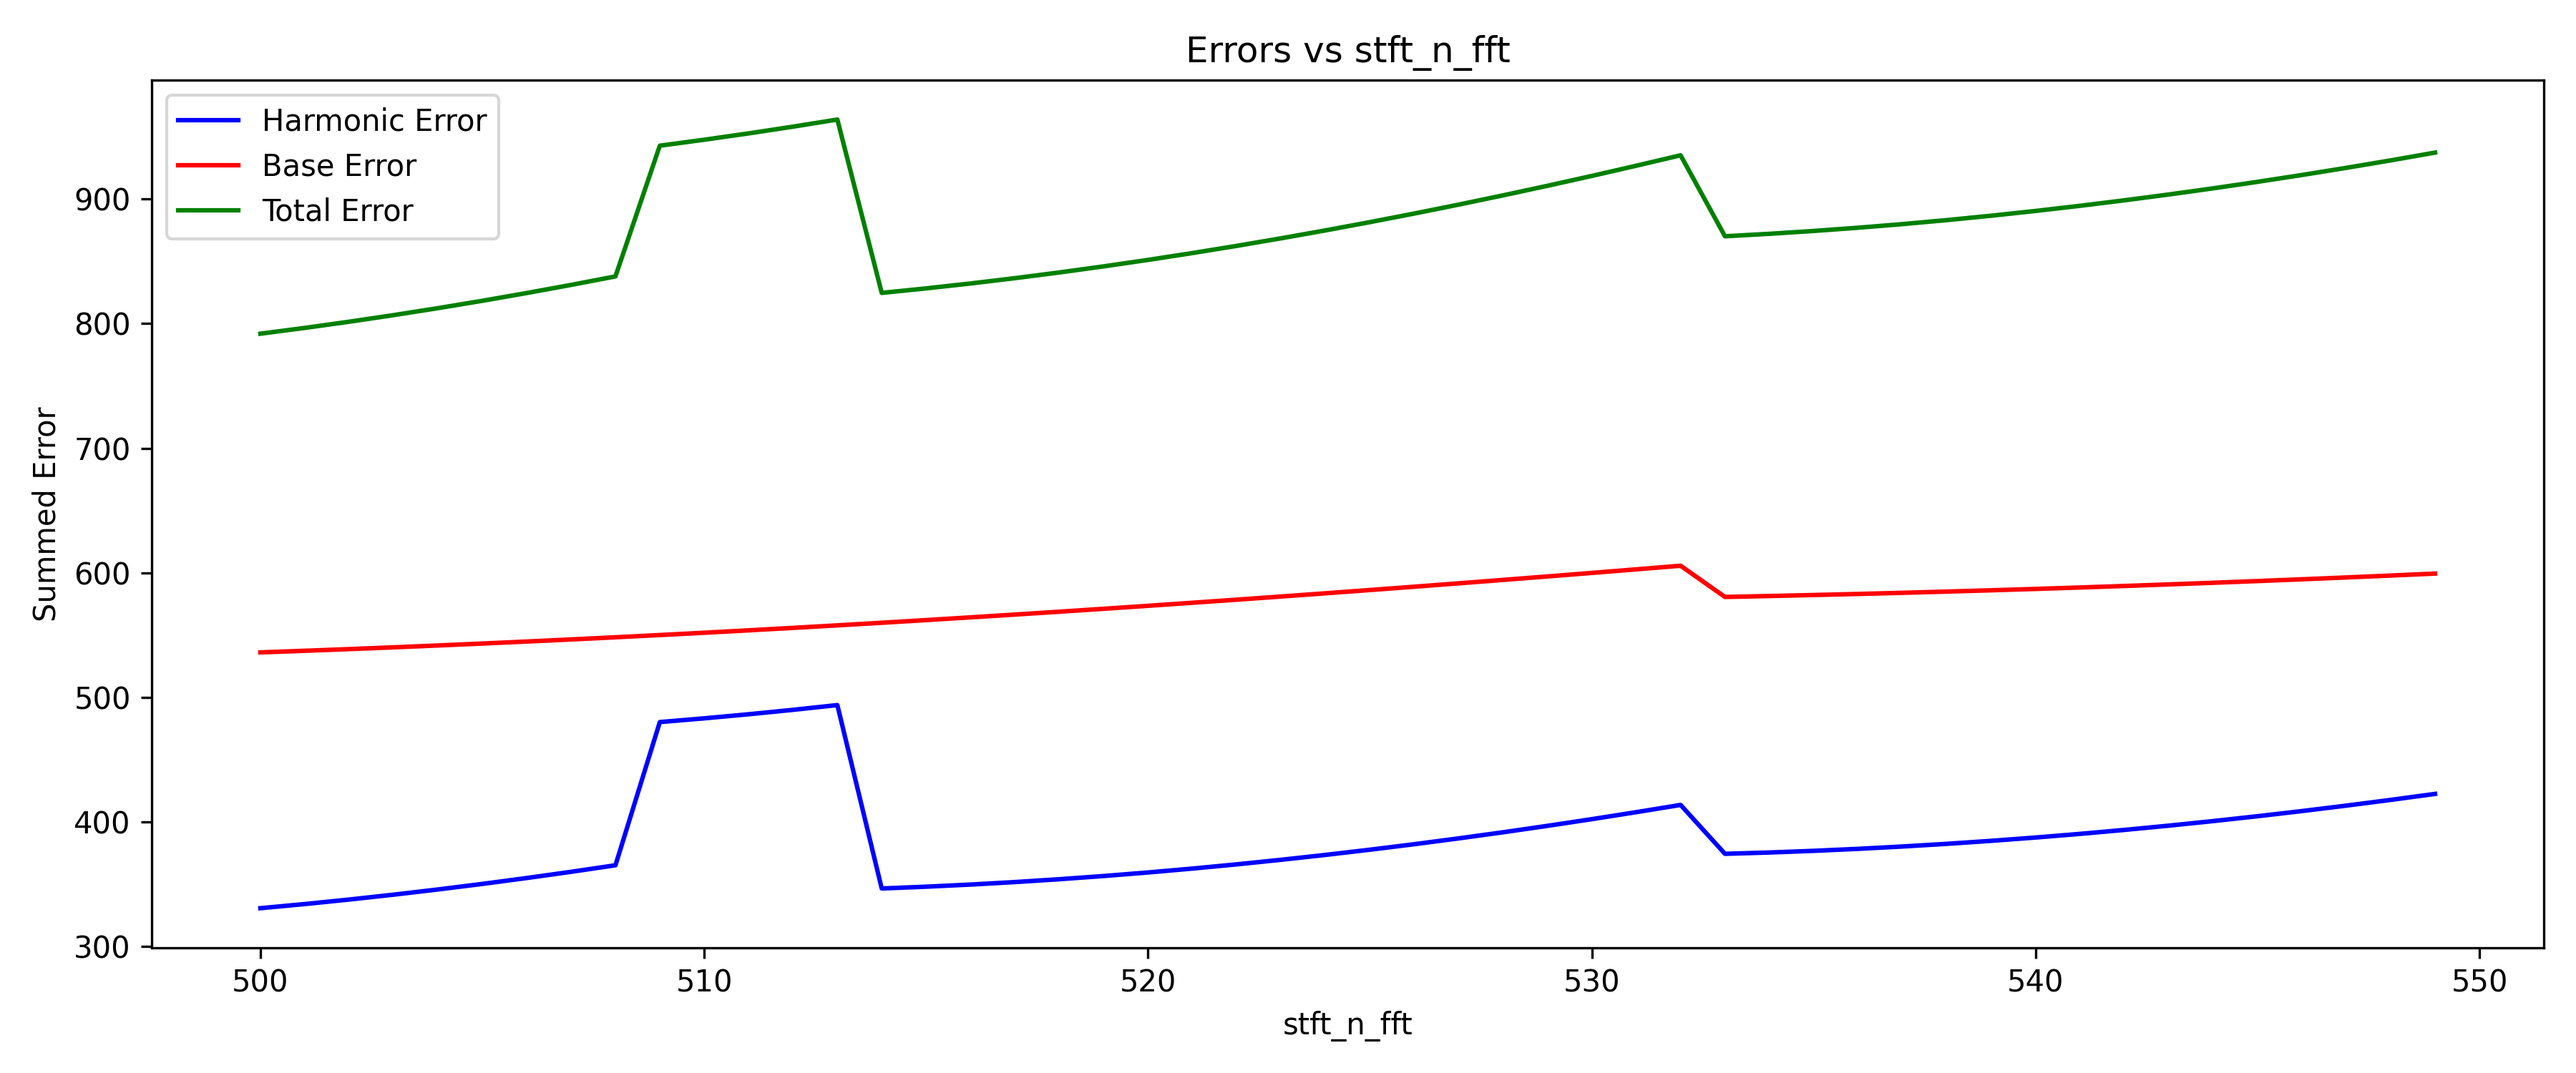
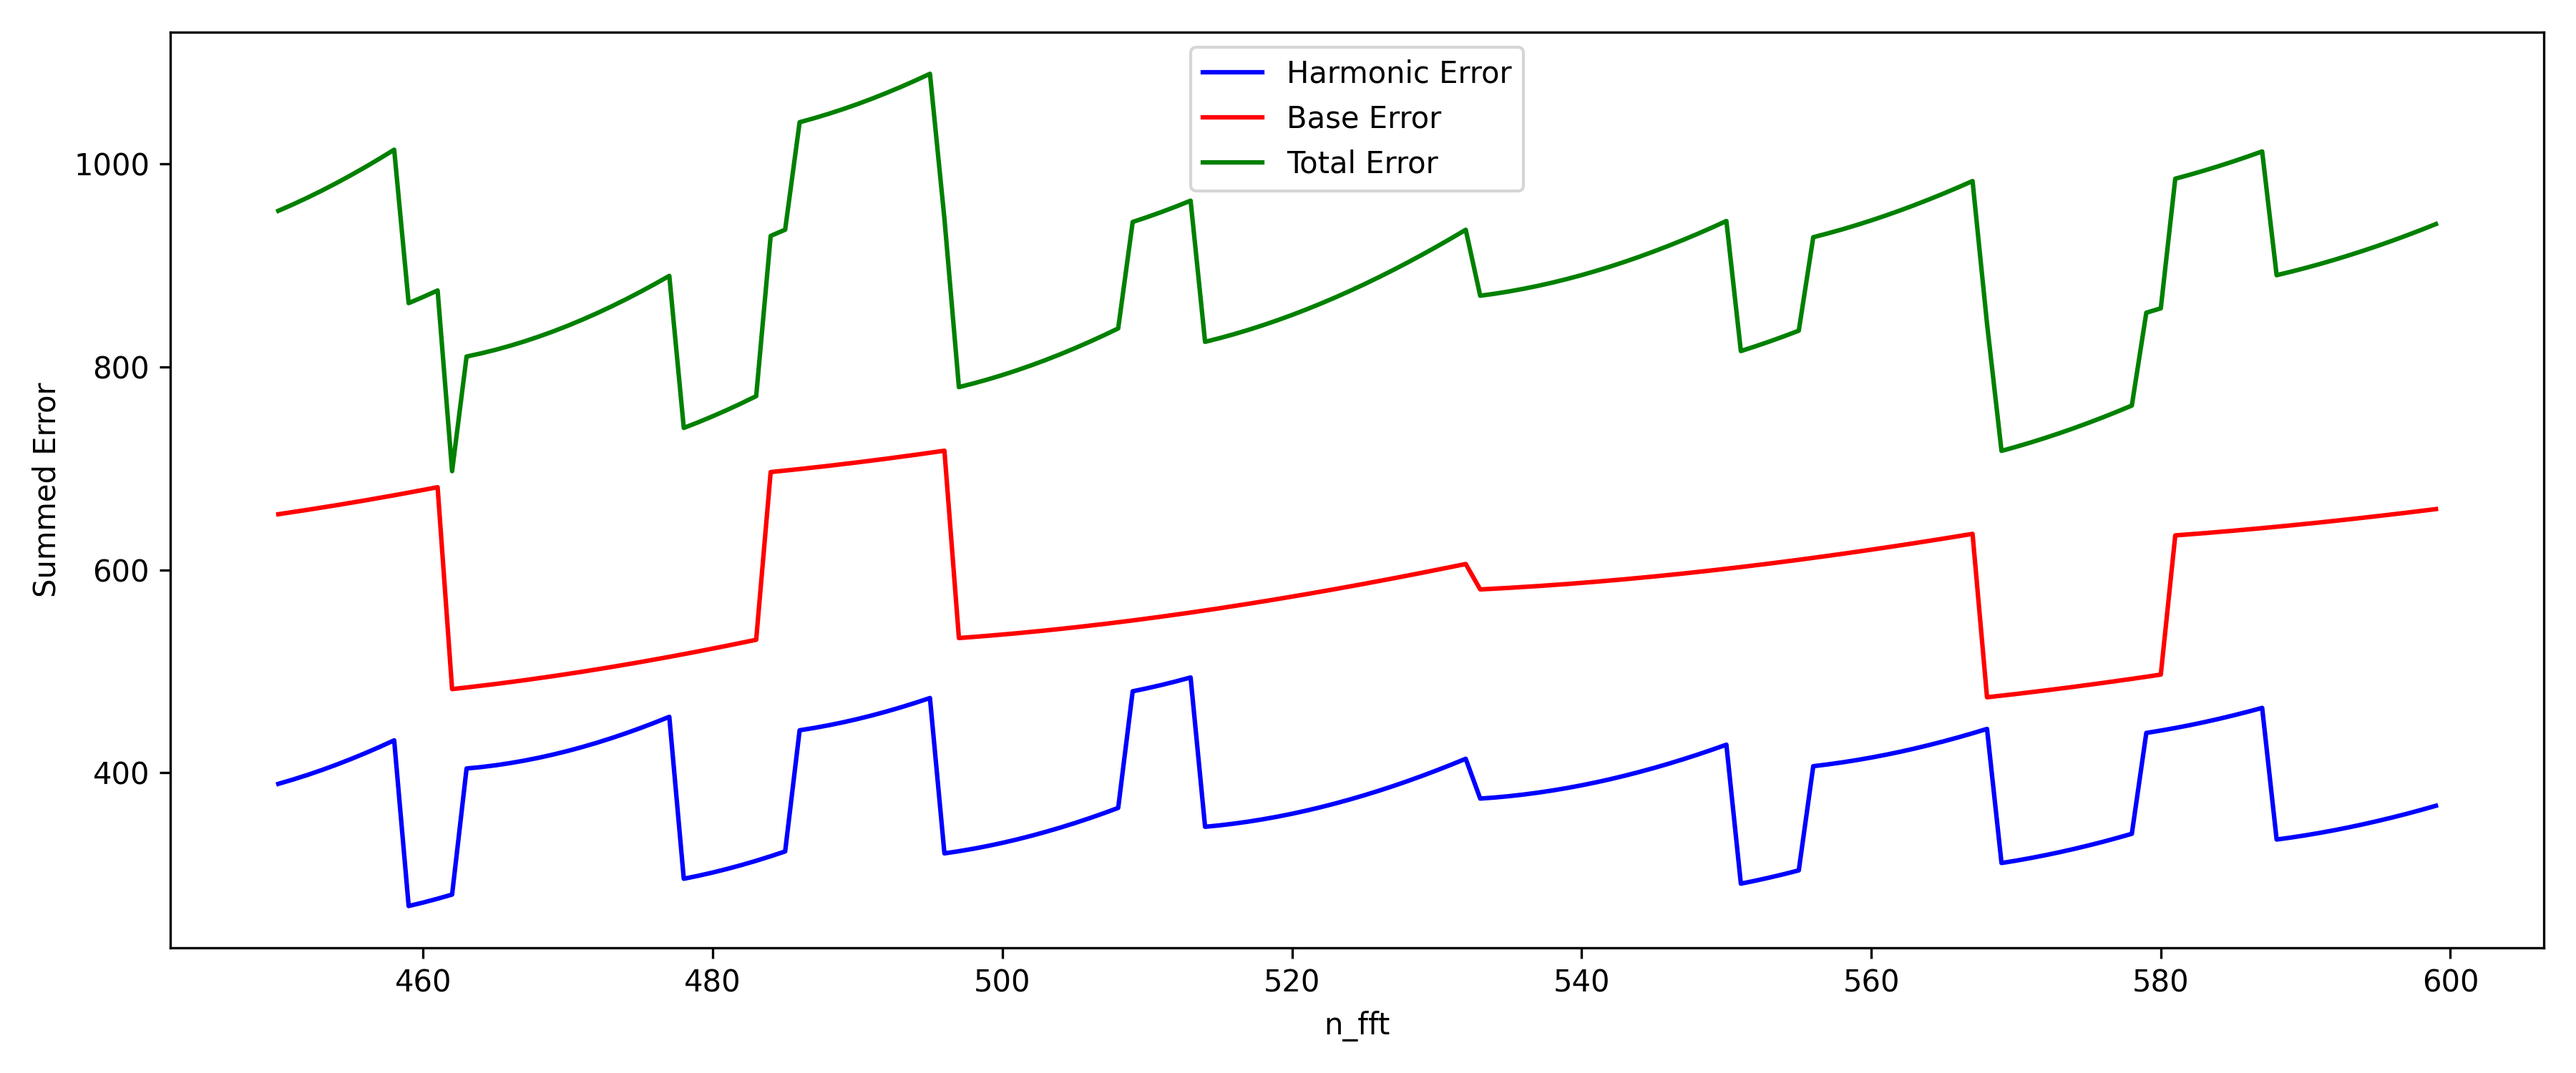
final_images

diff --git a/hyperparameter_stft.py b/hyperparameter_stft.py
@@ -209,15 +209,15 @@ def process_error(recon_harmonic,recon_base):
 # =============================================================
 
 #plot signal
-a,b = stft_sst(t,signal,f_min_analyse,f_max_analyse,stft_win_len,stft_hop_len,stft_n_fft,stft_gamma,band_min_base,band_max_base,log_scale,gt_base,gt_harmonic,plot=True)
+#a,b = stft_sst(t,signal,f_min_analyse,f_max_analyse,stft_win_len,stft_hop_len,stft_n_fft,stft_gamma,band_min_base,band_max_base,log_scale,gt_base,gt_harmonic,plot=True)
 
 
 #options: stft_win_len, stft_hop_len, stft_n_fft
-parameter = "lol"
-#options: win_len = 100, hop_len = 2, n_fft = 500
-eval_min = 500
-#options: win_len = 150, hop_len = 8, n_fft = 550
-eval_max = 550
+parameter = "stft_n_fft"
+#options: win_len = 50, hop_len = 1, n_fft = 450
+eval_min = 450
+#options: win_len = 200, hop_len = 10, n_fft = 600
+eval_max = 600
 
 #stft_win_len = 128     # samples
 #stft_hop_len = 2
@@ -244,8 +244,7 @@ if parameter == "stft_hop_len":
     plt.plot(par,h_error_lst,color="blue",label="Harmonic Error")
     plt.plot(par,b_error_lst,color="red",label="Base Error")
     plt.plot(par,t_error_lst,color="green",label="Total Error")
-    plt.title(f"Errors vs {parameter}")
-    plt.xlabel(parameter)
+    plt.xlabel("Hop Length")
     plt.ylabel("Summed Error")
     plt.legend()
     plt.tight_layout()
@@ -273,8 +272,7 @@ if parameter == "stft_win_len":
     plt.plot(par,h_error_lst,color="blue",label="Harmonic Error")
     plt.plot(par,b_error_lst,color="red",label="Base Error")
     plt.plot(par,t_error_lst,color="green",label="Total Error")
-    plt.title(f"Errors vs {parameter}")
-    plt.xlabel(parameter)
+    plt.xlabel("Window Length")
     plt.ylabel("Summed Error")
     plt.legend()
     plt.tight_layout()
@@ -302,8 +300,7 @@ if parameter == "stft_n_fft":
     plt.plot(par,h_error_lst,color="blue",label="Harmonic Error")
     plt.plot(par,b_error_lst,color="red",label="Base Error")
     plt.plot(par,t_error_lst,color="green",label="Total Error")
-    plt.title(f"Errors vs {parameter}")
-    plt.xlabel(parameter)
+    plt.xlabel("n_fft")
     plt.ylabel("Summed Error")
     plt.legend()
     plt.tight_layout()
